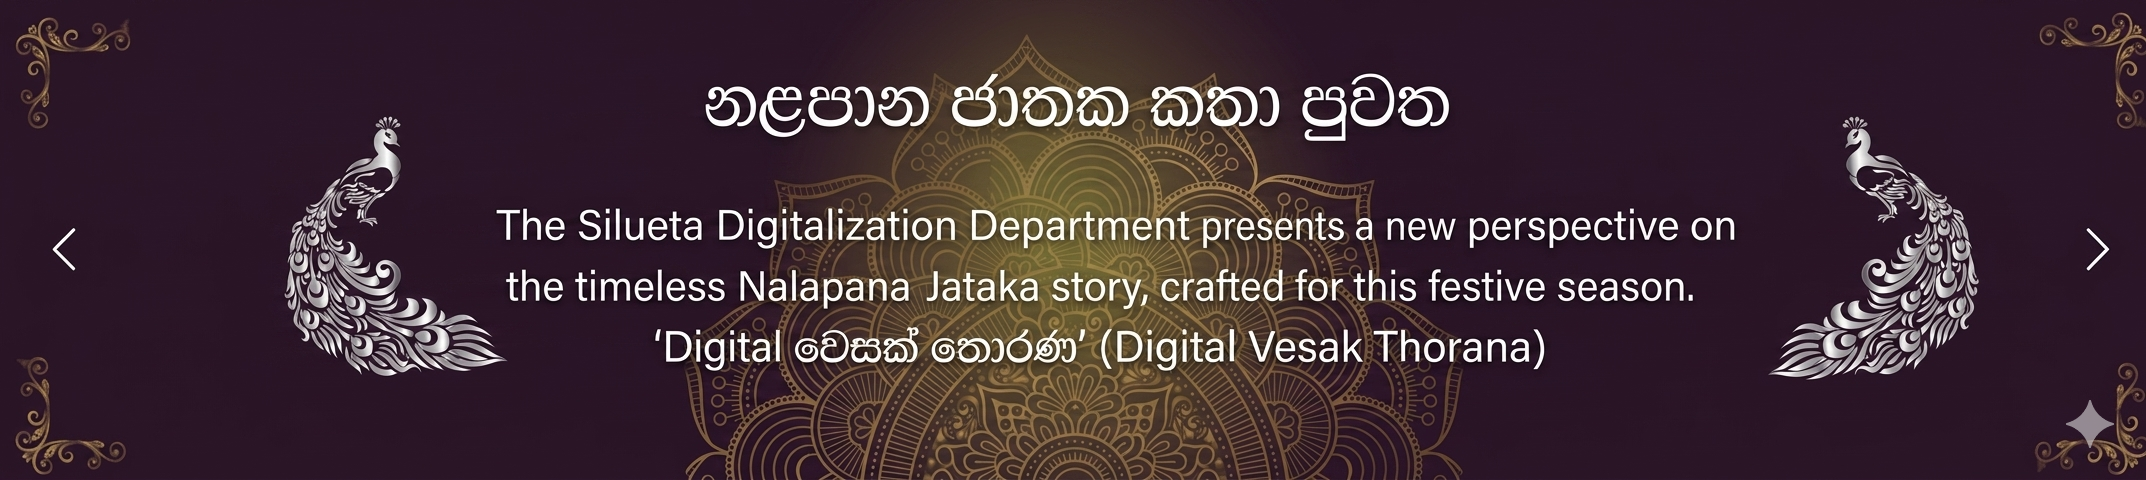
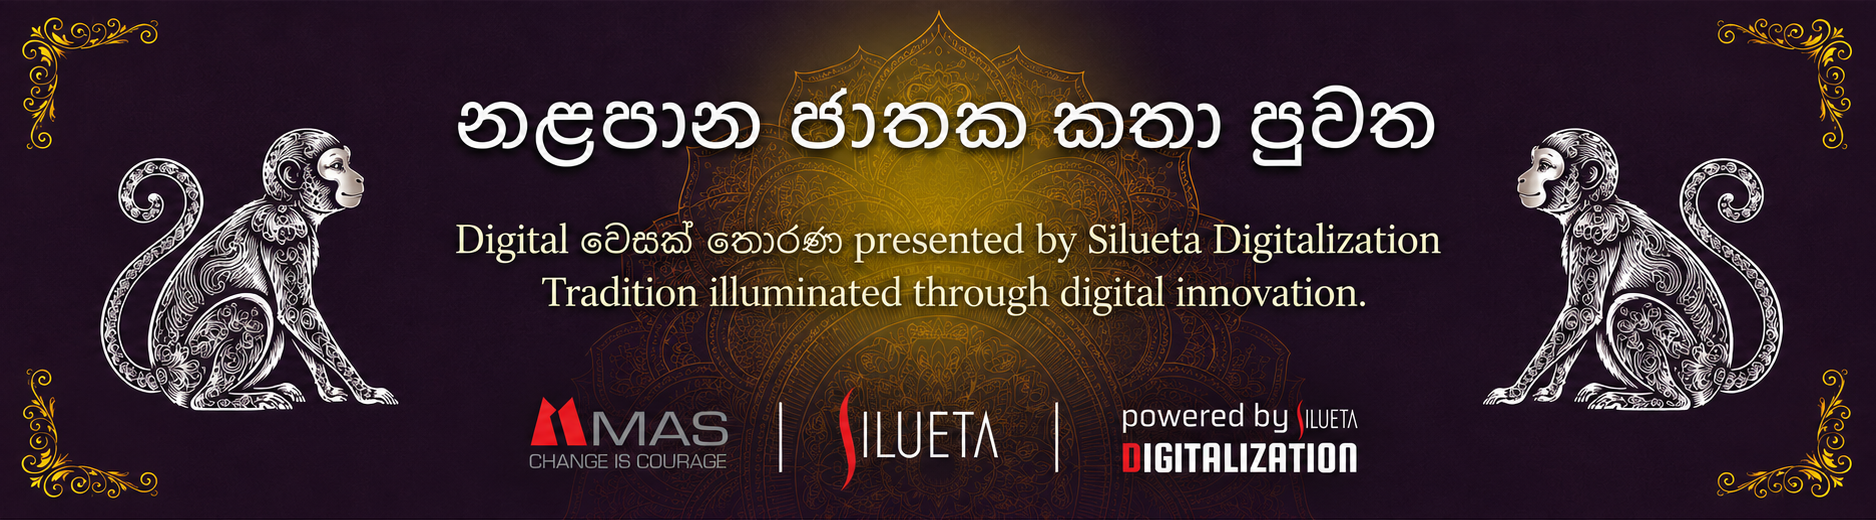
fix: final touches

diff --git a/index.html b/index.html
@@ -422,11 +422,11 @@ zoom:0.80;
         <img style="
                 position:absolute;
 
-                top: 123px;
+                top: 105px;
                 left:135px;
 
                 width:1375px;
-                height:270px;
+                height:293px;
                 border-radius:30px;
 
                 z-index:10;
